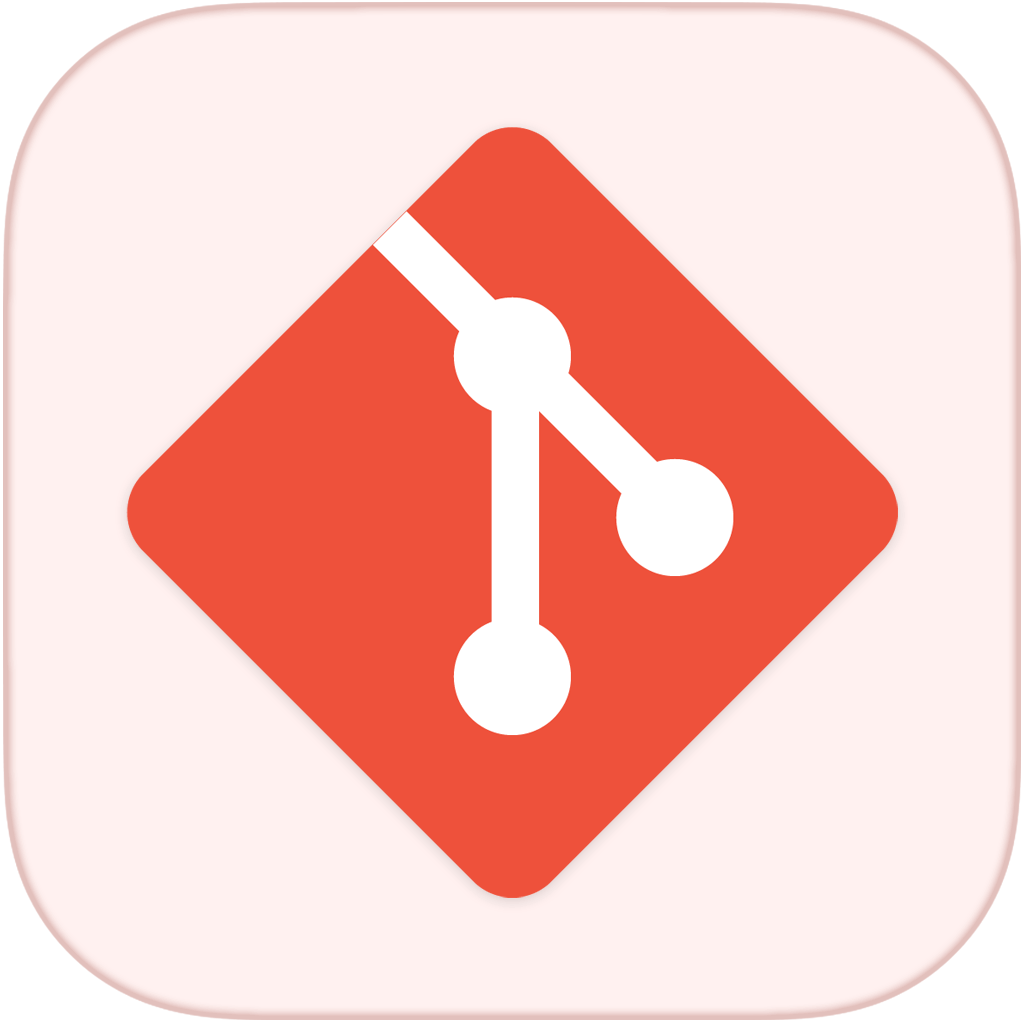
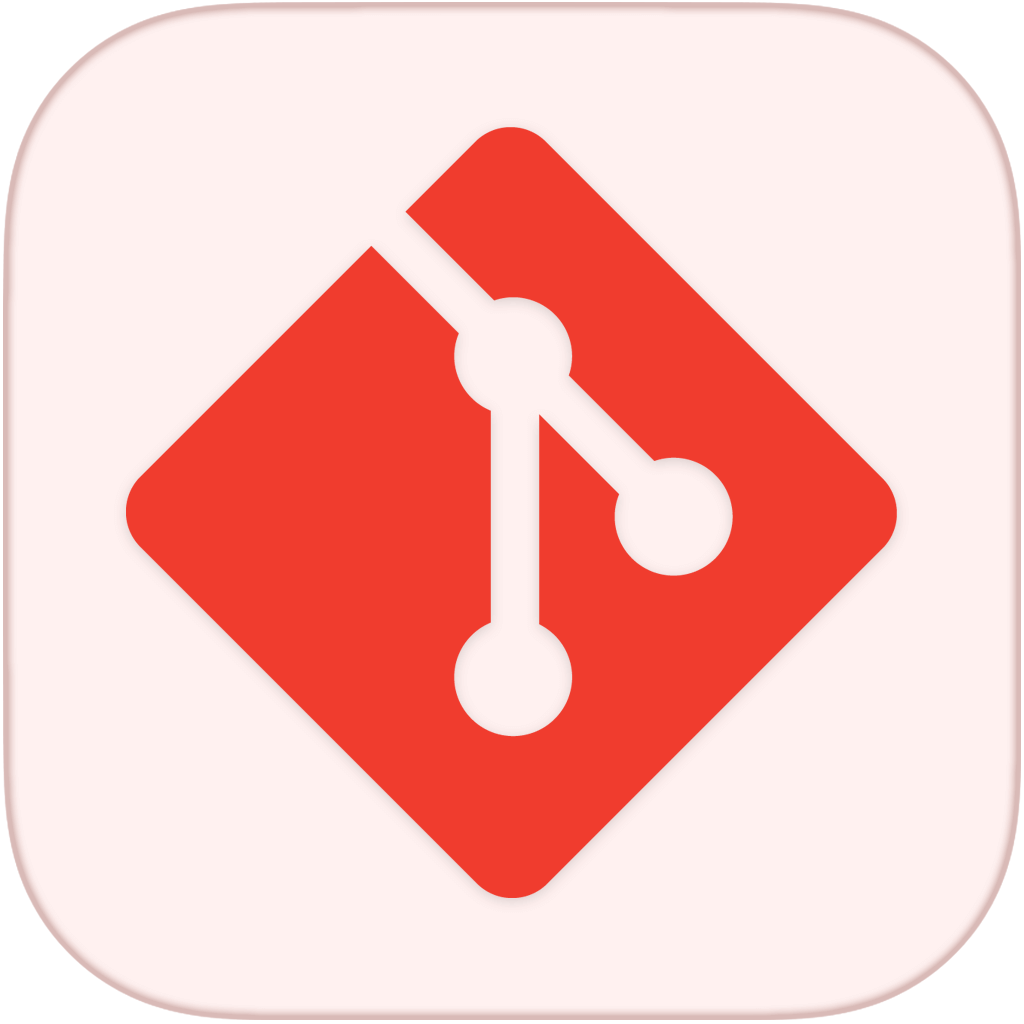
Add FileRise Folder Git_B Jupyter LOL-E-Sports Mazanoke Recommendarr RiotGames Smanga SyncPlay Windows

diff --git a/README.md b/README.md
@@ -126,7 +126,7 @@
 
 注：将以上地址最后的 xxxxx 换成对应的图标名称即可。<a href="#圆角矩形图标"><strong>图标名称预览在此 »</strong></a>
 
-## ✨ 图标预览（当前共计 1349 个）
+## ✨ 图标预览（当前共计 1383 个）
 ### 圆角矩形图标
 <!-- START BORDER-RADIUS ICONS -->
 <img src="_icons-radius.png" alt="radius">
@@ -141,7 +141,7 @@
 <!-- START SVG ICONS -->
 
 <!-- END SVG ICONS -->
-<img src="svg/9Kuai_A.svg" alt="9Kuai_A" width="95"> <img src="svg/Actual_A.svg" alt="Actual_A" width="95"> <img src="svg/Acunetix_A.svg" alt="Acunetix_A" width="95"> <img src="svg/Adguard-home_A.svg" alt="Adguard-home_A" width="95"> <img src="svg/Adminer_A.svg" alt="Adminer_A" width="95"> <img src="svg/Airflow_A.svg" alt="Airflow_A" width="95"> <img src="svg/Airflow_B.svg" alt="Airflow_B" width="95"> <img src="svg/Airflow_C.svg" alt="Airflow_C" width="95"> <img src="svg/Alicloud_A.svg" alt="Alicloud_A" width="95"> <img src="svg/Alist_A.svg" alt="Alist_A" width="95"> <img src="svg/Amule_A.svg" alt="Amule_A" width="95"> <img src="svg/Anaconda_A.svg" alt="Anaconda_A" width="95"> <img src="svg/Apache_A.svg" alt="Apache_A" width="95"> <img src="svg/Apache_B.svg" alt="Apache_B" width="95"> <img src="svg/Apache_C.svg" alt="Apache_C" width="95"> <img src="svg/Appletv+_A.svg" alt="Appletv+_A" width="95"> <img src="svg/Aqua_A.svg" alt="Aqua_A" width="95"> <img src="svg/Arch_A.svg" alt="Arch_A" width="95"> <img src="svg/Audio-bookshelf_A.svg" alt="Audio-bookshelf_A" width="95"> <img src="svg/Authelia_A.svg" alt="Authelia_A" width="95"> <img src="svg/Authelia_B.svg" alt="Authelia_B" width="95"> <img src="svg/Authentik_A.svg" alt="Authentik_A" width="95"> <img src="svg/Autobrr_A.svg" alt="Autobrr_A" width="95"> <img src="svg/Baidu_A.svg" alt="Baidu_A" width="95"> <img src="svg/Bard_A.svg" alt="Bard_A" width="95"> <img src="svg/Baserow_A.svg" alt="Baserow_A" width="95"> <img src="svg/Bazarr_A.svg" alt="Bazarr_A" width="95"> <img src="svg/BigDataTools_A.svg" alt="BigDataTools_A" width="95"> <img src="svg/Bilibili_A.svg" alt="Bilibili_A" width="95"> <img src="svg/Bililive-recorder_A.svg" alt="Bililive-recorder_A" width="95"> <img src="svg/Bitwarden_A.svg" alt="Bitwarden_A" width="95"> <img src="svg/Bitwarden_B.svg" alt="Bitwarden_B" width="95"> <img src="svg/Blinko_A.svg" alt="Blinko_A" width="95"> <img src="svg/Blossom_A.svg" alt="Blossom_A" width="95"> <img src="svg/Bracket_A.svg" alt="Bracket_A" width="95"> <img src="svg/Caddy_A.svg" alt="Caddy_A" width="95"> <img src="svg/Cal.com_A.svg" alt="Cal.com_A" width="95"> <img src="svg/Calibre-web_A.svg" alt="Calibre-web_A" width="95"> <img src="svg/Casaos_A.svg" alt="Casaos_A" width="95"> <img src="svg/Centos_A.svg" alt="Centos_A" width="95"> <img src="svg/Centos_B.svg" alt="Centos_B" width="95"> <img src="svg/Chatgpt_A.svg" alt="Chatgpt_A" width="95"> <img src="svg/Chatgpt_B.svg" alt="Chatgpt_B" width="95"> <img src="svg/Chevereto_A.svg" alt="Chevereto_A" width="95"> <img src="svg/Chrome_A.svg" alt="Chrome_A" width="95"> <img src="svg/Claper_A.svg" alt="Claper_A" width="95"> <img src="svg/CLion_A.svg" alt="CLion_A" width="95"> <img src="svg/Cloud-beaver_A.svg" alt="Cloud-beaver_A" width="95"> <img src="svg/Cloud-beaver_B.svg" alt="Cloud-beaver_B" width="95"> <img src="svg/Cloudflare_A.svg" alt="Cloudflare_A" width="95"> <img src="svg/Cloudflare_B.svg" alt="Cloudflare_B" width="95"> <img src="svg/Cloudreve_A.svg" alt="Cloudreve_A" width="95"> <img src="svg/Code-server_A.svg" alt="Code-server_A" width="95"> <img src="svg/Code-with-me_A.svg" alt="Code-with-me_A" width="95"> <img src="svg/Codex-docs_A.svg" alt="Codex-docs_A" width="95"> <img src="svg/Cyberchef_A.svg" alt="Cyberchef_A" width="95"> <img src="svg/Cyberchef_B.svg" alt="Cyberchef_B" width="95"> <img src="svg/DataGrip_A.svg" alt="DataGrip_A" width="95"> <img src="svg/Datalore_A.svg" alt="Datalore_A" width="95"> <img src="svg/DataSpell_A.svg" alt="DataSpell_A" width="95"> <img src="svg/Debian_A.svg" alt="Debian_A" width="95"> <img src="svg/Debian_B.svg" alt="Debian_B" width="95"> <img src="svg/Deepin_A.svg" alt="Deepin_A" width="95"> <img src="svg/Deepseek_A.svg" alt="Deepseek_A" width="95"> <img src="svg/Dell_A.svg" alt="Dell_A" width="95"> <img src="svg/Deluge_A.svg" alt="Deluge_A" width="95"> <img src="svg/Directus_A.svg" alt="Directus_A" width="95"> <img src="svg/Directus_B.svg" alt="Directus_B" width="95"> <img src="svg/Discord_A.svg" alt="Discord_A" width="95"> <img src="svg/DM_20240201114214_043.svg" alt="DM_20240201114214_043" width="95"> <img src="svg/Docker-registry_A.svg" alt="Docker-registry_A" width="95"> <img src="svg/Docker_A.svg" alt="Docker_A" width="95"> <img src="svg/Docker_B.svg" alt="Docker_B" width="95"> <img src="svg/Docker_C.svg" alt="Docker_C" width="95"> <img src="svg/Docker_D.svg" alt="Docker_D" width="95"> <img src="svg/Docspell_A.svg" alt="Docspell_A" width="95"> <img src="svg/Dootask.svg" alt="Dootask" width="95"> <img src="svg/Doris_A.svg" alt="Doris_A" width="95"> <img src="svg/DotCover_A.svg" alt="DotCover_A" width="95"> <img src="svg/DotMemory_A.svg" alt="DotMemory_A" width="95"> <img src="svg/DotPeek_A.svg" alt="DotPeek_A" width="95"> <img src="svg/DotTrace_A.svg" alt="DotTrace_A" width="95"> <img src="svg/Dozzle_A.svg" alt="Dozzle_A" width="95"> <img src="svg/Drawio_A.svg" alt="Drawio_A" width="95"> <img src="svg/Duplicati_A.svg" alt="Duplicati_A" width="95"> <img src="svg/Element_A.svg" alt="Element_A" width="95"> <img src="svg/Etherpad_A.svg" alt="Etherpad_A" width="95"> <img src="svg/Featherwiki_A.svg" alt="Featherwiki_A" width="95"> <img src="svg/Fenrus_A.svg" alt="Fenrus_A" width="95"> <img src="svg/Flaresolverr_A.svg" alt="Flaresolverr_A" width="95"> <img src="svg/Fleet_A.svg" alt="Fleet_A" width="95"> <img src="svg/Flink_A.svg" alt="Flink_A" width="95"> <img src="svg/Flink_B.svg" alt="Flink_B" width="95"> <img src="svg/Focalboard_A.svg" alt="Focalboard_A" width="95"> <img src="svg/Gcore_A.svg" alt="Gcore_A" width="95"> <img src="svg/Git_A.svg" alt="Git_A" width="95"> <img src="svg/Gitee_A.svg" alt="Gitee_A" width="95"> <img src="svg/Gitlab_A.svg" alt="Gitlab_A" width="95"> <img src="svg/GoLand_A.svg" alt="GoLand_A" width="95"> <img src="svg/Gopeed_A.svg" alt="Gopeed_A" width="95"> <img src="svg/Grimoire_A.svg" alt="Grimoire_A" width="95"> <img src="svg/Hadoop_A.svg" alt="Hadoop_A" width="95"> <img src="svg/Hadoop_B.svg" alt="Hadoop_B" width="95"> <img src="svg/Hedgedoc_A.svg" alt="Hedgedoc_A" width="95"> <img src="svg/Heyform_A.svg" alt="Heyform_A" width="95"> <img src="svg/Hive_A.svg" alt="Hive_A" width="95"> <img src="svg/Hoarder_A.svg" alt="Hoarder_A" width="95"> <img src="svg/Home-gallery_A.svg" alt="Home-gallery_A" width="95"> <img src="svg/Homer_A.svg" alt="Homer_A" width="95"> <img src="svg/Intellij-idea_A.svg" alt="Intellij-idea_A" width="95"> <img src="svg/Ipw.cn_A.svg" alt="Ipw.cn_A" width="95"> <img src="svg/It-tools_A.svg" alt="It-tools_A" width="95"> <img src="svg/Jfa-go_A.svg" alt="Jfa-go_A" width="95"> <img src="svg/Jfa-go_B.svg" alt="Jfa-go_B" width="95"> <img src="svg/Jmalcloud_A.svg" alt="Jmalcloud_A" width="95"> <img src="svg/Koel_A.svg" alt="Koel_A" width="95"> <img src="svg/Kopia_A.svg" alt="Kopia_A" width="95"> <img src="svg/Kotlin_A.svg" alt="Kotlin_A" width="95"> <img src="svg/Ktor_A.svg" alt="Ktor_A" width="95"> <img src="svg/Leichi_A.svg" alt="Leichi_A" width="95"> <img src="svg/Librespeed_A.svg" alt="Librespeed_A" width="95"> <img src="svg/Limesurvey_A.svg" alt="Limesurvey_A" width="95"> <img src="svg/Linkding_A.svg" alt="Linkding_A" width="95"> <img src="svg/Listmonk_A.svg" alt="Listmonk_A" width="95"> <img src="svg/Loggit_A.svg" alt="Loggit_A" width="95"> <img src="svg/Lrcapi_A.svg" alt="Lrcapi_A" width="95"> <img src="svg/Lynx_A.svg" alt="Lynx_A" width="95"> <img src="svg/Mafl_A.svg" alt="Mafl_A" width="95"> <img src="svg/Manticore-search_A.svg" alt="Manticore-search_A" width="95"> <img src="svg/Mastodon_A.svg" alt="Mastodon_A" width="95"> <img src="svg/Mastodon_B.svg" alt="Mastodon_B" width="95"> <img src="svg/Mathesar_A.svg" alt="Mathesar_A" width="95"> <img src="svg/Mautic_A.svg" alt="Mautic_A" width="95"> <img src="svg/Mediawiki_A.svg" alt="Mediawiki_A" width="95"> <img src="svg/Meilisearch_A.svg" alt="Meilisearch_A" width="95"> <img src="svg/Meremedical_A.svg" alt="Meremedical_A" width="95"> <img src="svg/Metabase_A.svg" alt="Metabase_A" width="95"> <img src="svg/Microtalk-p2p_A.svg" alt="Microtalk-p2p_A" width="95"> <img src="svg/Microtalk-sfu_A.svg" alt="Microtalk-sfu_A" width="95"> <img src="svg/Mindsdb_A.svg" alt="Mindsdb_A" width="95"> <img src="svg/Miniserve_A.svg" alt="Miniserve_A" width="95"> <img src="svg/Moodle_A.svg" alt="Moodle_A" width="95"> <img src="svg/MPS_A.svg" alt="MPS_A" width="95"> <img src="svg/Nexterm_A.svg" alt="Nexterm_A" width="95"> <img src="svg/Nezha_A.svg" alt="Nezha_A" width="95"> <img src="svg/Nginx_A.svg" alt="Nginx_A" width="95"> <img src="svg/Nginx_B.svg" alt="Nginx_B" width="95"> <img src="svg/Nginx_C.svg" alt="Nginx_C" width="95"> <img src="svg/Notabase_A.svg" alt="Notabase_A" width="95"> <img src="svg/Notemark_A.svg" alt="Notemark_A" width="95"> <img src="svg/Nut_A.svg" alt="Nut_A" width="95"> <img src="svg/Nvidia_A.svg" alt="Nvidia_A" width="95"> <img src="svg/Oauth2proxy_A.svg" alt="Oauth2proxy_A" width="95"> <img src="svg/Ollama_A.svg" alt="Ollama_A" width="95"> <img src="svg/Onestrm_A.svg" alt="Onestrm_A" width="95"> <img src="svg/Open-metadata_A.svg" alt="Open-metadata_A" width="95"> <img src="svg/Open-webui_A.svg" alt="Open-webui_A" width="95"> <img src="svg/Orion-visor_A.svg" alt="Orion-visor_A" width="95"> <img src="svg/Outline_A.svg" alt="Outline_A" width="95"> <img src="svg/Padloc_A.svg" alt="Padloc_A" width="95"> <img src="svg/Photopea_A.svg" alt="Photopea_A" width="95"> <img src="svg/PhpStorm_A.svg" alt="PhpStorm_A" width="95"> <img src="svg/Plex_A.svg" alt="Plex_A" width="95"> <img src="svg/Plex_B.svg" alt="Plex_B" width="95"> <img src="svg/Plex_C.svg" alt="Plex_C" width="95"> <img src="svg/Ptools_A.svg" alt="Ptools_A" width="95"> <img src="svg/PyCharm_A.svg" alt="PyCharm_A" width="95"> <img src="svg/Python_A.svg" alt="Python_A" width="95"> <img src="svg/Qnap_A.svg" alt="Qnap_A" width="95"> <img src="svg/Qnap_B.svg" alt="Qnap_B" width="95"> <img src="svg/Qodana_A.svg" alt="Qodana_A" width="95"> <img src="svg/Quill_A.svg" alt="Quill_A" width="95"> <img src="svg/Radarr_A.svg" alt="Radarr_A" width="95"> <img src="svg/Readeck_A.svg" alt="Readeck_A" width="95"> <img src="svg/Readeck_B.svg" alt="Readeck_B" width="95"> <img src="svg/Readthedocs_A.svg" alt="Readthedocs_A" width="95"> <img src="svg/ReSharper_A.svg" alt="ReSharper_A" width="95"> <img src="svg/ReSharperC++_A.svg" alt="ReSharperC++_A" width="95"> <img src="svg/Rider_A.svg" alt="Rider_A" width="95"> <img src="svg/RiderFlow_A.svg" alt="RiderFlow_A" width="95"> <img src="svg/Rocky_A.svg" alt="Rocky_A" width="95"> <img src="svg/Rog_A.svg" alt="Rog_A" width="95"> <img src="svg/RubyMine_A.svg" alt="RubyMine_A" width="95"> <img src="svg/RustRover_A.svg" alt="RustRover_A" width="95"> <img src="svg/Rxresume_A.svg" alt="Rxresume_A" width="95"> <img src="svg/Scala_A.svg" alt="Scala_A" width="95"> <img src="svg/Servas_A.svg" alt="Servas_A" width="95"> <img src="svg/Snapdrop_A.svg" alt="Snapdrop_A" width="95"> <img src="svg/Splayer_A.svg" alt="Splayer_A" width="95"> <img src="svg/Squoosh_A.svg" alt="Squoosh_A" width="95"> <img src="svg/Stash_A.svg" alt="Stash_A" width="95"> <img src="svg/Sunpanel_A.svg" alt="Sunpanel_A" width="95"> <img src="svg/Superset_A.svg" alt="Superset_A" width="95"> <img src="svg/Superset_B.svg" alt="Superset_B" width="95"> <img src="svg/Superset_C.svg" alt="Superset_C" width="95"> <img src="svg/Superset_D.svg" alt="Superset_D" width="95"> <img src="svg/Superset_E.svg" alt="Superset_E" width="95"> <img src="svg/Superset_F.svg" alt="Superset_F" width="95"> <img src="svg/Superset_G.svg" alt="Superset_G" width="95"> <img src="svg/Swing-music_A.svg" alt="Swing-music_A" width="95"> <img src="svg/Tailchat_A.svg" alt="Tailchat_A" width="95"> <img src="svg/Teable_A.svg" alt="Teable_A" width="95"> <img src="svg/Team-mapper_A.svg" alt="Team-mapper_A" width="95"> <img src="svg/Teampass_A.svg" alt="Teampass_A" width="95"> <img src="svg/Telegram_A.svg" alt="Telegram_A" width="95"> <img src="svg/Telegram_B.svg" alt="Telegram_B" width="95"> <img src="svg/Telegram_C.svg" alt="Telegram_C" width="95"> <img src="svg/The-lounge_A.svg" alt="The-lounge_A" width="95"> <img src="svg/Thunderbird_A.svg" alt="Thunderbird_A" width="95"> <img src="svg/Tongyi_A.svg" alt="Tongyi_A" width="95"> <img src="svg/ToolBox_A.svg" alt="ToolBox_A" width="95"> <img src="svg/Traccar_A.svg" alt="Traccar_A" width="95"> <img src="svg/Ubuntu_A.svg" alt="Ubuntu_A" width="95"> <img src="svg/Ubuntu_B.svg" alt="Ubuntu_B" width="95"> <img src="svg/Ubuntu_C.svg" alt="Ubuntu_C" width="95"> <img src="svg/Unbalance_A.svg" alt="Unbalance_A" width="95"> <img src="svg/Unlock-music_A.svg" alt="Unlock-music_A" width="95"> <img src="svg/Unraid_A.svg" alt="Unraid_A" width="95"> <img src="svg/Uptime-kuma_A.svg" alt="Uptime-kuma_A" width="95"> <img src="svg/V2raya_A.svg" alt="V2raya_A" width="95"> <img src="svg/Vagrant_A.svg" alt="Vagrant_A" width="95"> <img src="svg/Vertex_A.svg" alt="Vertex_A" width="95"> <img src="svg/Vertex_B.svg" alt="Vertex_B" width="95"> <img src="svg/Vmware_A.svg" alt="Vmware_A" width="95"> <img src="svg/Vscode_A.svg" alt="Vscode_A" width="95"> <img src="svg/Vscode_B.svg" alt="Vscode_B" width="95"> <img src="svg/Vscodium_A.svg" alt="Vscodium_A" width="95"> <img src="svg/Vscodium_B.svg" alt="Vscodium_B" width="95"> <img src="svg/Wallabag_A.svg" alt="Wallabag_A" width="95"> <img src="svg/Wallabag_B.svg" alt="Wallabag_B" width="95"> <img src="svg/Wallabag_C.svg" alt="Wallabag_C" width="95"> <img src="svg/Wallos_A.svg" alt="Wallos_A" width="95"> <img src="svg/Watchtower_A.svg" alt="Watchtower_A" width="95"> <img src="svg/Wbo_A.svg" alt="Wbo_A" width="95"> <img src="svg/WebStorm_A.svg" alt="WebStorm_A" width="95"> <img src="svg/Wechat_A.svg" alt="Wechat_A" width="95"> <img src="svg/Wechat_B.svg" alt="Wechat_B" width="95"> <img src="svg/Wekan_A.svg" alt="Wekan_A" width="95"> <img src="svg/Wekan_B.svg" alt="Wekan_B" width="95"> <img src="svg/Whisparr_A.svg" alt="Whisparr_A" width="95"> <img src="svg/Wikijs_A.svg" alt="Wikijs_A" width="95"> <img src="svg/Wireguard_A.svg" alt="Wireguard_A" width="95"> <img src="svg/Wise-mapping_A.svg" alt="Wise-mapping_A" width="95"> <img src="svg/Wordpress_A.svg" alt="Wordpress_A" width="95"> <img src="svg/Writerside_A.svg" alt="Writerside_A" width="95"> <img src="svg/YouTrack_A.svg" alt="YouTrack_A" width="95"> <img src="svg/Youtube_A.svg" alt="Youtube_A" width="95"> <img src="svg/Youtube_B.svg" alt="Youtube_B" width="95"> <img src="svg/Youtube_C.svg" alt="Youtube_C" width="95"> <img src="svg/Youtube_D.svg" alt="Youtube_D" width="95"> <img src="svg/Youtube_E.svg" alt="Youtube_E" width="95"> <img src="svg/Zfile_A.svg" alt="Zfile_A" width="95"> <img src="svg/Zigbeemqtt_A.svg" alt="Zigbeemqtt_A" width="95"> <img src="svg/Zimaos_A.svg" alt="Zimaos_A" width="95"> <img src="svg/节点小宝_A.svg" alt="节点小宝_A" width="95">
+<img src="svg/9Kuai_A.svg" alt="9Kuai_A" width="95"> <img src="svg/Actual_A.svg" alt="Actual_A" width="95"> <img src="svg/Acunetix_A.svg" alt="Acunetix_A" width="95"> <img src="svg/Adguard-home_A.svg" alt="Adguard-home_A" width="95"> <img src="svg/Adminer_A.svg" alt="Adminer_A" width="95"> <img src="svg/Airflow_A.svg" alt="Airflow_A" width="95"> <img src="svg/Airflow_B.svg" alt="Airflow_B" width="95"> <img src="svg/Airflow_C.svg" alt="Airflow_C" width="95"> <img src="svg/Alicloud_A.svg" alt="Alicloud_A" width="95"> <img src="svg/Alist_A.svg" alt="Alist_A" width="95"> <img src="svg/Amule_A.svg" alt="Amule_A" width="95"> <img src="svg/Anaconda_A.svg" alt="Anaconda_A" width="95"> <img src="svg/Apache_A.svg" alt="Apache_A" width="95"> <img src="svg/Apache_B.svg" alt="Apache_B" width="95"> <img src="svg/Apache_C.svg" alt="Apache_C" width="95"> <img src="svg/Appletv+_A.svg" alt="Appletv+_A" width="95"> <img src="svg/Aqua_A.svg" alt="Aqua_A" width="95"> <img src="svg/Arch_A.svg" alt="Arch_A" width="95"> <img src="svg/Audio-bookshelf_A.svg" alt="Audio-bookshelf_A" width="95"> <img src="svg/Authelia_A.svg" alt="Authelia_A" width="95"> <img src="svg/Authelia_B.svg" alt="Authelia_B" width="95"> <img src="svg/Authentik_A.svg" alt="Authentik_A" width="95"> <img src="svg/Autobrr_A.svg" alt="Autobrr_A" width="95"> <img src="svg/Baidu_A.svg" alt="Baidu_A" width="95"> <img src="svg/Bard_A.svg" alt="Bard_A" width="95"> <img src="svg/Baserow_A.svg" alt="Baserow_A" width="95"> <img src="svg/Bazarr_A.svg" alt="Bazarr_A" width="95"> <img src="svg/BigDataTools_A.svg" alt="BigDataTools_A" width="95"> <img src="svg/Bilibili_A.svg" alt="Bilibili_A" width="95"> <img src="svg/Bililive-recorder_A.svg" alt="Bililive-recorder_A" width="95"> <img src="svg/Bitwarden_A.svg" alt="Bitwarden_A" width="95"> <img src="svg/Bitwarden_B.svg" alt="Bitwarden_B" width="95"> <img src="svg/Blinko_A.svg" alt="Blinko_A" width="95"> <img src="svg/Blossom_A.svg" alt="Blossom_A" width="95"> <img src="svg/Bracket_A.svg" alt="Bracket_A" width="95"> <img src="svg/Caddy_A.svg" alt="Caddy_A" width="95"> <img src="svg/Cal.com_A.svg" alt="Cal.com_A" width="95"> <img src="svg/Calibre-web_A.svg" alt="Calibre-web_A" width="95"> <img src="svg/Casaos_A.svg" alt="Casaos_A" width="95"> <img src="svg/Centos_A.svg" alt="Centos_A" width="95"> <img src="svg/Centos_B.svg" alt="Centos_B" width="95"> <img src="svg/Chatgpt_A.svg" alt="Chatgpt_A" width="95"> <img src="svg/Chatgpt_B.svg" alt="Chatgpt_B" width="95"> <img src="svg/Chevereto_A.svg" alt="Chevereto_A" width="95"> <img src="svg/Chrome_A.svg" alt="Chrome_A" width="95"> <img src="svg/Claper_A.svg" alt="Claper_A" width="95"> <img src="svg/CLion_A.svg" alt="CLion_A" width="95"> <img src="svg/Cloud-beaver_A.svg" alt="Cloud-beaver_A" width="95"> <img src="svg/Cloud-beaver_B.svg" alt="Cloud-beaver_B" width="95"> <img src="svg/Cloudflare_A.svg" alt="Cloudflare_A" width="95"> <img src="svg/Cloudflare_B.svg" alt="Cloudflare_B" width="95"> <img src="svg/Cloudreve_A.svg" alt="Cloudreve_A" width="95"> <img src="svg/Code-server_A.svg" alt="Code-server_A" width="95"> <img src="svg/Code-with-me_A.svg" alt="Code-with-me_A" width="95"> <img src="svg/Codex-docs_A.svg" alt="Codex-docs_A" width="95"> <img src="svg/Cyberchef_A.svg" alt="Cyberchef_A" width="95"> <img src="svg/Cyberchef_B.svg" alt="Cyberchef_B" width="95"> <img src="svg/DataGrip_A.svg" alt="DataGrip_A" width="95"> <img src="svg/Datalore_A.svg" alt="Datalore_A" width="95"> <img src="svg/DataSpell_A.svg" alt="DataSpell_A" width="95"> <img src="svg/Debian_A.svg" alt="Debian_A" width="95"> <img src="svg/Debian_B.svg" alt="Debian_B" width="95"> <img src="svg/Deepin_A.svg" alt="Deepin_A" width="95"> <img src="svg/Deepseek_A.svg" alt="Deepseek_A" width="95"> <img src="svg/Dell_A.svg" alt="Dell_A" width="95"> <img src="svg/Deluge_A.svg" alt="Deluge_A" width="95"> <img src="svg/Directus_A.svg" alt="Directus_A" width="95"> <img src="svg/Directus_B.svg" alt="Directus_B" width="95"> <img src="svg/Discord_A.svg" alt="Discord_A" width="95"> <img src="svg/DM_20240201114214_043.svg" alt="DM_20240201114214_043" width="95"> <img src="svg/Docker-registry_A.svg" alt="Docker-registry_A" width="95"> <img src="svg/Docker_A.svg" alt="Docker_A" width="95"> <img src="svg/Docker_B.svg" alt="Docker_B" width="95"> <img src="svg/Docker_C.svg" alt="Docker_C" width="95"> <img src="svg/Docker_D.svg" alt="Docker_D" width="95"> <img src="svg/Docspell_A.svg" alt="Docspell_A" width="95"> <img src="svg/Dootask.svg" alt="Dootask" width="95"> <img src="svg/Doris_A.svg" alt="Doris_A" width="95"> <img src="svg/DotCover_A.svg" alt="DotCover_A" width="95"> <img src="svg/DotMemory_A.svg" alt="DotMemory_A" width="95"> <img src="svg/DotPeek_A.svg" alt="DotPeek_A" width="95"> <img src="svg/DotTrace_A.svg" alt="DotTrace_A" width="95"> <img src="svg/Dozzle_A.svg" alt="Dozzle_A" width="95"> <img src="svg/Drawio_A.svg" alt="Drawio_A" width="95"> <img src="svg/Duplicati_A.svg" alt="Duplicati_A" width="95"> <img src="svg/Element_A.svg" alt="Element_A" width="95"> <img src="svg/Etherpad_A.svg" alt="Etherpad_A" width="95"> <img src="svg/Featherwiki_A.svg" alt="Featherwiki_A" width="95"> <img src="svg/Fenrus_A.svg" alt="Fenrus_A" width="95"> <img src="svg/Filerise_A.svg" alt="Filerise_A" width="95"> <img src="svg/Filerise_B.svg" alt="Filerise_B" width="95"> <img src="svg/Filerise_C.svg" alt="Filerise_C" width="95"> <img src="svg/Flaresolverr_A.svg" alt="Flaresolverr_A" width="95"> <img src="svg/Fleet_A.svg" alt="Fleet_A" width="95"> <img src="svg/Flink_A.svg" alt="Flink_A" width="95"> <img src="svg/Flink_B.svg" alt="Flink_B" width="95"> <img src="svg/Focalboard_A.svg" alt="Focalboard_A" width="95"> <img src="svg/Folder_A.svg" alt="Folder_A" width="95"> <img src="svg/Gcore_A.svg" alt="Gcore_A" width="95"> <img src="svg/Git_A.svg" alt="Git_A" width="95"> <img src="svg/Git_B.svg" alt="Git_B" width="95"> <img src="svg/Gitee_A.svg" alt="Gitee_A" width="95"> <img src="svg/Gitlab_A.svg" alt="Gitlab_A" width="95"> <img src="svg/GoLand_A.svg" alt="GoLand_A" width="95"> <img src="svg/Gopeed_A.svg" alt="Gopeed_A" width="95"> <img src="svg/Grimoire_A.svg" alt="Grimoire_A" width="95"> <img src="svg/Hadoop_A.svg" alt="Hadoop_A" width="95"> <img src="svg/Hadoop_B.svg" alt="Hadoop_B" width="95"> <img src="svg/Hedgedoc_A.svg" alt="Hedgedoc_A" width="95"> <img src="svg/Heyform_A.svg" alt="Heyform_A" width="95"> <img src="svg/Hive_A.svg" alt="Hive_A" width="95"> <img src="svg/Hoarder_A.svg" alt="Hoarder_A" width="95"> <img src="svg/Home-gallery_A.svg" alt="Home-gallery_A" width="95"> <img src="svg/Homer_A.svg" alt="Homer_A" width="95"> <img src="svg/Intellij-idea_A.svg" alt="Intellij-idea_A" width="95"> <img src="svg/Ipw.cn_A.svg" alt="Ipw.cn_A" width="95"> <img src="svg/It-tools_A.svg" alt="It-tools_A" width="95"> <img src="svg/Jfa-go_A.svg" alt="Jfa-go_A" width="95"> <img src="svg/Jfa-go_B.svg" alt="Jfa-go_B" width="95"> <img src="svg/Jmalcloud_A.svg" alt="Jmalcloud_A" width="95"> <img src="svg/Jupyter_B.svg" alt="Jupyter_B" width="95"> <img src="svg/Koel_A.svg" alt="Koel_A" width="95"> <img src="svg/Kopia_A.svg" alt="Kopia_A" width="95"> <img src="svg/Kotlin_A.svg" alt="Kotlin_A" width="95"> <img src="svg/Ktor_A.svg" alt="Ktor_A" width="95"> <img src="svg/Leichi_A.svg" alt="Leichi_A" width="95"> <img src="svg/Librespeed_A.svg" alt="Librespeed_A" width="95"> <img src="svg/Limesurvey_A.svg" alt="Limesurvey_A" width="95"> <img src="svg/Linkding_A.svg" alt="Linkding_A" width="95"> <img src="svg/Listmonk_A.svg" alt="Listmonk_A" width="95"> <img src="svg/Loggit_A.svg" alt="Loggit_A" width="95"> <img src="svg/Lol-esports_A.svg" alt="Lol-esports_A" width="95"> <img src="svg/Lrcapi_A.svg" alt="Lrcapi_A" width="95"> <img src="svg/Lynx_A.svg" alt="Lynx_A" width="95"> <img src="svg/Mafl_A.svg" alt="Mafl_A" width="95"> <img src="svg/Manticore-search_A.svg" alt="Manticore-search_A" width="95"> <img src="svg/Mastodon_A.svg" alt="Mastodon_A" width="95"> <img src="svg/Mastodon_B.svg" alt="Mastodon_B" width="95"> <img src="svg/Mathesar_A.svg" alt="Mathesar_A" width="95"> <img src="svg/Mautic_A.svg" alt="Mautic_A" width="95"> <img src="svg/Mediawiki_A.svg" alt="Mediawiki_A" width="95"> <img src="svg/Meilisearch_A.svg" alt="Meilisearch_A" width="95"> <img src="svg/Meremedical_A.svg" alt="Meremedical_A" width="95"> <img src="svg/Metabase_A.svg" alt="Metabase_A" width="95"> <img src="svg/Microtalk-p2p_A.svg" alt="Microtalk-p2p_A" width="95"> <img src="svg/Microtalk-sfu_A.svg" alt="Microtalk-sfu_A" width="95"> <img src="svg/Mindsdb_A.svg" alt="Mindsdb_A" width="95"> <img src="svg/Miniserve_A.svg" alt="Miniserve_A" width="95"> <img src="svg/Moodle_A.svg" alt="Moodle_A" width="95"> <img src="svg/MPS_A.svg" alt="MPS_A" width="95"> <img src="svg/Nexterm_A.svg" alt="Nexterm_A" width="95"> <img src="svg/Nezha_A.svg" alt="Nezha_A" width="95"> <img src="svg/Nginx_A.svg" alt="Nginx_A" width="95"> <img src="svg/Nginx_B.svg" alt="Nginx_B" width="95"> <img src="svg/Nginx_C.svg" alt="Nginx_C" width="95"> <img src="svg/Notabase_A.svg" alt="Notabase_A" width="95"> <img src="svg/Notemark_A.svg" alt="Notemark_A" width="95"> <img src="svg/Nut_A.svg" alt="Nut_A" width="95"> <img src="svg/Nvidia_A.svg" alt="Nvidia_A" width="95"> <img src="svg/Oauth2proxy_A.svg" alt="Oauth2proxy_A" width="95"> <img src="svg/Ollama_A.svg" alt="Ollama_A" width="95"> <img src="svg/Onestrm_A.svg" alt="Onestrm_A" width="95"> <img src="svg/Open-metadata_A.svg" alt="Open-metadata_A" width="95"> <img src="svg/Open-webui_A.svg" alt="Open-webui_A" width="95"> <img src="svg/Orion-visor_A.svg" alt="Orion-visor_A" width="95"> <img src="svg/Outline_A.svg" alt="Outline_A" width="95"> <img src="svg/Padloc_A.svg" alt="Padloc_A" width="95"> <img src="svg/Photopea_A.svg" alt="Photopea_A" width="95"> <img src="svg/PhpStorm_A.svg" alt="PhpStorm_A" width="95"> <img src="svg/Plex_A.svg" alt="Plex_A" width="95"> <img src="svg/Plex_B.svg" alt="Plex_B" width="95"> <img src="svg/Plex_C.svg" alt="Plex_C" width="95"> <img src="svg/Ptools_A.svg" alt="Ptools_A" width="95"> <img src="svg/PyCharm_A.svg" alt="PyCharm_A" width="95"> <img src="svg/Python_A.svg" alt="Python_A" width="95"> <img src="svg/Qnap_A.svg" alt="Qnap_A" width="95"> <img src="svg/Qnap_B.svg" alt="Qnap_B" width="95"> <img src="svg/Qodana_A.svg" alt="Qodana_A" width="95"> <img src="svg/Quill_A.svg" alt="Quill_A" width="95"> <img src="svg/Radarr_A.svg" alt="Radarr_A" width="95"> <img src="svg/Readeck_A.svg" alt="Readeck_A" width="95"> <img src="svg/Readeck_B.svg" alt="Readeck_B" width="95"> <img src="svg/Readthedocs_A.svg" alt="Readthedocs_A" width="95"> <img src="svg/ReSharper_A.svg" alt="ReSharper_A" width="95"> <img src="svg/ReSharperC++_A.svg" alt="ReSharperC++_A" width="95"> <img src="svg/Rider_A.svg" alt="Rider_A" width="95"> <img src="svg/RiderFlow_A.svg" alt="RiderFlow_A" width="95"> <img src="svg/Riot-games_A.svg" alt="Riot-games_A" width="95"> <img src="svg/Rocky_A.svg" alt="Rocky_A" width="95"> <img src="svg/Rog_A.svg" alt="Rog_A" width="95"> <img src="svg/RubyMine_A.svg" alt="RubyMine_A" width="95"> <img src="svg/RustRover_A.svg" alt="RustRover_A" width="95"> <img src="svg/Rxresume_A.svg" alt="Rxresume_A" width="95"> <img src="svg/Scala_A.svg" alt="Scala_A" width="95"> <img src="svg/Servas_A.svg" alt="Servas_A" width="95"> <img src="svg/Snapdrop_A.svg" alt="Snapdrop_A" width="95"> <img src="svg/Splayer_A.svg" alt="Splayer_A" width="95"> <img src="svg/Squoosh_A.svg" alt="Squoosh_A" width="95"> <img src="svg/Stash_A.svg" alt="Stash_A" width="95"> <img src="svg/Sunpanel_A.svg" alt="Sunpanel_A" width="95"> <img src="svg/Superset_A.svg" alt="Superset_A" width="95"> <img src="svg/Superset_B.svg" alt="Superset_B" width="95"> <img src="svg/Superset_C.svg" alt="Superset_C" width="95"> <img src="svg/Superset_D.svg" alt="Superset_D" width="95"> <img src="svg/Superset_E.svg" alt="Superset_E" width="95"> <img src="svg/Superset_F.svg" alt="Superset_F" width="95"> <img src="svg/Superset_G.svg" alt="Superset_G" width="95"> <img src="svg/Swing-music_A.svg" alt="Swing-music_A" width="95"> <img src="svg/Tailchat_A.svg" alt="Tailchat_A" width="95"> <img src="svg/Teable_A.svg" alt="Teable_A" width="95"> <img src="svg/Team-mapper_A.svg" alt="Team-mapper_A" width="95"> <img src="svg/Teampass_A.svg" alt="Teampass_A" width="95"> <img src="svg/Telegram_A.svg" alt="Telegram_A" width="95"> <img src="svg/Telegram_B.svg" alt="Telegram_B" width="95"> <img src="svg/Telegram_C.svg" alt="Telegram_C" width="95"> <img src="svg/The-lounge_A.svg" alt="The-lounge_A" width="95"> <img src="svg/Thunderbird_A.svg" alt="Thunderbird_A" width="95"> <img src="svg/Tongyi_A.svg" alt="Tongyi_A" width="95"> <img src="svg/ToolBox_A.svg" alt="ToolBox_A" width="95"> <img src="svg/Traccar_A.svg" alt="Traccar_A" width="95"> <img src="svg/Ubuntu_A.svg" alt="Ubuntu_A" width="95"> <img src="svg/Ubuntu_B.svg" alt="Ubuntu_B" width="95"> <img src="svg/Ubuntu_C.svg" alt="Ubuntu_C" width="95"> <img src="svg/Unbalance_A.svg" alt="Unbalance_A" width="95"> <img src="svg/Unlock-music_A.svg" alt="Unlock-music_A" width="95"> <img src="svg/Unraid_A.svg" alt="Unraid_A" width="95"> <img src="svg/Uptime-kuma_A.svg" alt="Uptime-kuma_A" width="95"> <img src="svg/V2raya_A.svg" alt="V2raya_A" width="95"> <img src="svg/Vagrant_A.svg" alt="Vagrant_A" width="95"> <img src="svg/Vertex_A.svg" alt="Vertex_A" width="95"> <img src="svg/Vertex_B.svg" alt="Vertex_B" width="95"> <img src="svg/Vmware_A.svg" alt="Vmware_A" width="95"> <img src="svg/Vscode_A.svg" alt="Vscode_A" width="95"> <img src="svg/Vscode_B.svg" alt="Vscode_B" width="95"> <img src="svg/Vscodium_A.svg" alt="Vscodium_A" width="95"> <img src="svg/Vscodium_B.svg" alt="Vscodium_B" width="95"> <img src="svg/Wallabag_A.svg" alt="Wallabag_A" width="95"> <img src="svg/Wallabag_B.svg" alt="Wallabag_B" width="95"> <img src="svg/Wallabag_C.svg" alt="Wallabag_C" width="95"> <img src="svg/Wallos_A.svg" alt="Wallos_A" width="95"> <img src="svg/Watchtower_A.svg" alt="Watchtower_A" width="95"> <img src="svg/Wbo_A.svg" alt="Wbo_A" width="95"> <img src="svg/WebStorm_A.svg" alt="WebStorm_A" width="95"> <img src="svg/Wechat_A.svg" alt="Wechat_A" width="95"> <img src="svg/Wechat_B.svg" alt="Wechat_B" width="95"> <img src="svg/Wekan_A.svg" alt="Wekan_A" width="95"> <img src="svg/Wekan_B.svg" alt="Wekan_B" width="95"> <img src="svg/Whisparr_A.svg" alt="Whisparr_A" width="95"> <img src="svg/Wikijs_A.svg" alt="Wikijs_A" width="95"> <img src="svg/Windows-server_A.svg" alt="Windows-server_A" width="95"> <img src="svg/Windows10_A.svg" alt="Windows10_A" width="95"> <img src="svg/Windows7_A.svg" alt="Windows7_A" width="95"> <img src="svg/Windows8_A.svg" alt="Windows8_A" width="95"> <img src="svg/Windows95_A.svg" alt="Windows95_A" width="95"> <img src="svg/Wireguard_A.svg" alt="Wireguard_A" width="95"> <img src="svg/Wise-mapping_A.svg" alt="Wise-mapping_A" width="95"> <img src="svg/Wordpress_A.svg" alt="Wordpress_A" width="95"> <img src="svg/Writerside_A.svg" alt="Writerside_A" width="95"> <img src="svg/YouTrack_A.svg" alt="YouTrack_A" width="95"> <img src="svg/Youtube_A.svg" alt="Youtube_A" width="95"> <img src="svg/Youtube_B.svg" alt="Youtube_B" width="95"> <img src="svg/Youtube_C.svg" alt="Youtube_C" width="95"> <img src="svg/Youtube_D.svg" alt="Youtube_D" width="95"> <img src="svg/Youtube_E.svg" alt="Youtube_E" width="95"> <img src="svg/Zfile_A.svg" alt="Zfile_A" width="95"> <img src="svg/Zigbeemqtt_A.svg" alt="Zigbeemqtt_A" width="95"> <img src="svg/Zimaos_A.svg" alt="Zimaos_A" width="95"> <img src="svg/节点小宝_A.svg" alt="节点小宝_A" width="95">
 
 <!-- LEGAL -->
 
